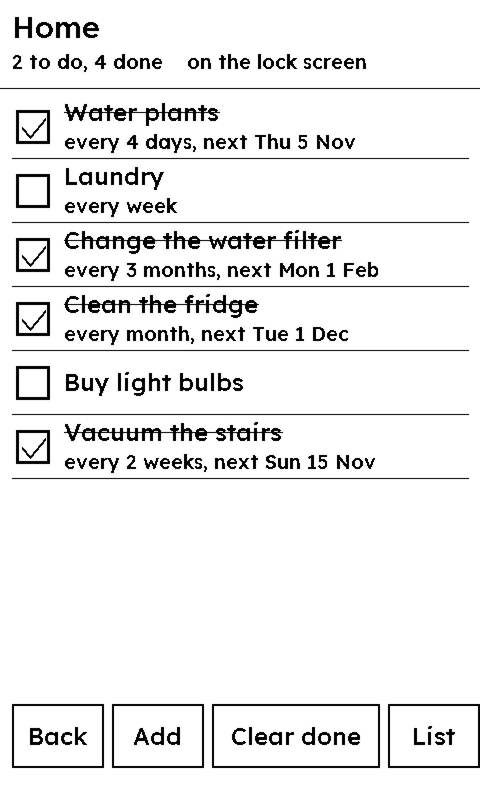
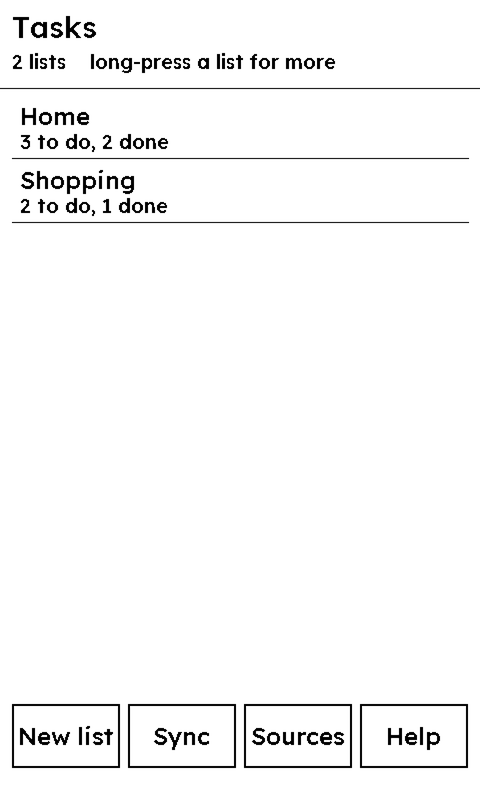
Tasks 1.2.0: Remove (an account) fits its button; new site screenshots

diff --git a/apps/tasks/test_remote.py b/apps/tasks/test_remote.py
@@ -423,7 +423,7 @@ g.tap_label('Todoist token'); typed(' changed ')
 flush()
 assert 'Inbox' in names()
 g.tap_label('Sources')
-g.tap_label('Remove an account')
+g.tap_label('Remove')
 assert 'Remove which account?' in g.texts() and 'Google (work)' in g.texts()
 g.tap_label('Todoist')
 assert 'Inbox' not in names() and 'Home' not in names() and 'My Tasks' in names() and 'Work' in names()

diff --git a/apps/tasks/README.md b/apps/tasks/README.md
@@ -49,8 +49,8 @@ Google task needs firmware 26110201 or later (API 2.18).
 **Several accounts** of one service (personal and work) each get a file of their own,
 `todoist-NAME.txt`, `google-NAME.txt` or `ticktick-NAME.txt`; NAME marks their lists ("Google (work)"). An account that
 fails (a token no longer accepted) keeps its lists as they were and does not stop the others; the
-list of lists says "1 account failed", and Sources shows what went wrong. Sources → Remove an
-account forgets it and its lists (nothing changes in the service).
+list of lists says "1 account failed", and Sources shows what went wrong. Sources → Remove
+forgets an account and its lists (nothing changes in the service).
 
 ### Setting up Todoist
 
